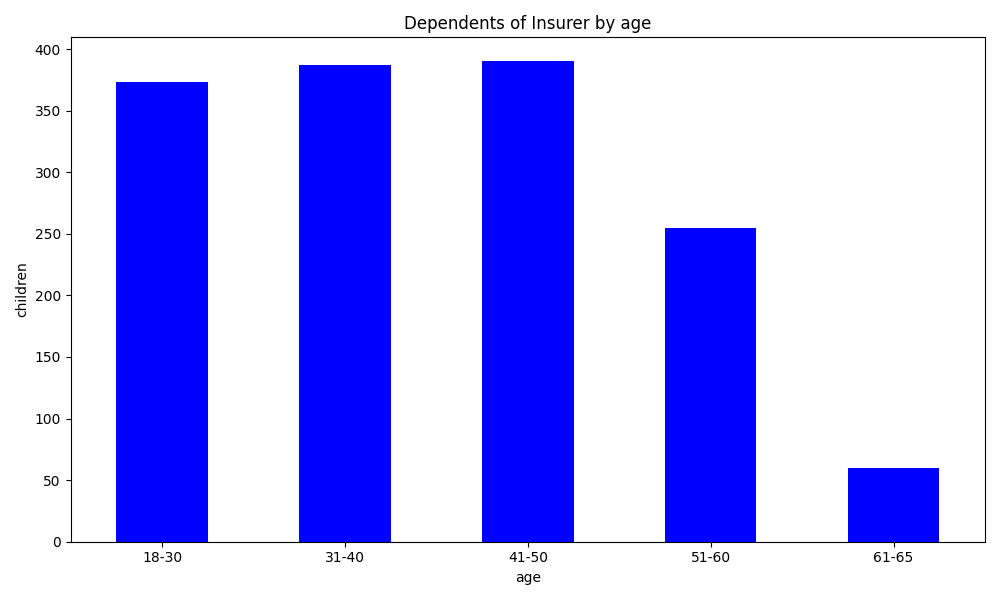
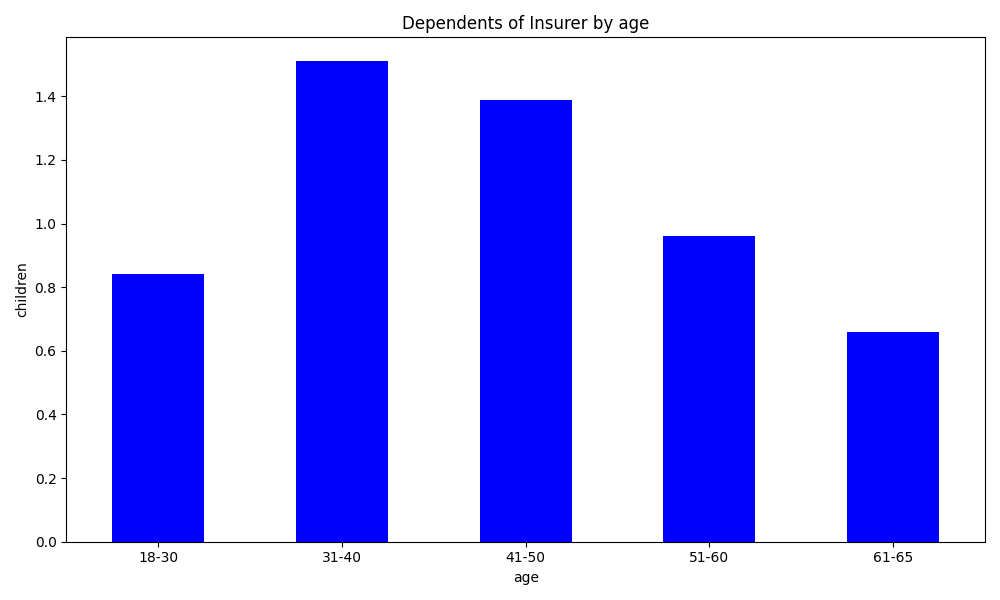
Fixed children vs age graph and improved data analysis

diff --git a/insurance.py b/insurance.py
@@ -36,7 +36,7 @@ def explore_data(data):
 
 #Prints the mean of children in age gaps
     print("\nAge summary by children:\n ", data.groupby("age_group",observed=True)["children"].sum().round(2))
-    dependents_by_age = data.groupby("age_group",observed=True)["children"].sum().round(2)
+    dependents_by_age = data.groupby("age_group",observed=True)["children"].mean().round(2)
 
 
     data["rate_of_smoker_by_bmi"] = data["smoker_binary"]/data["bmi"]
